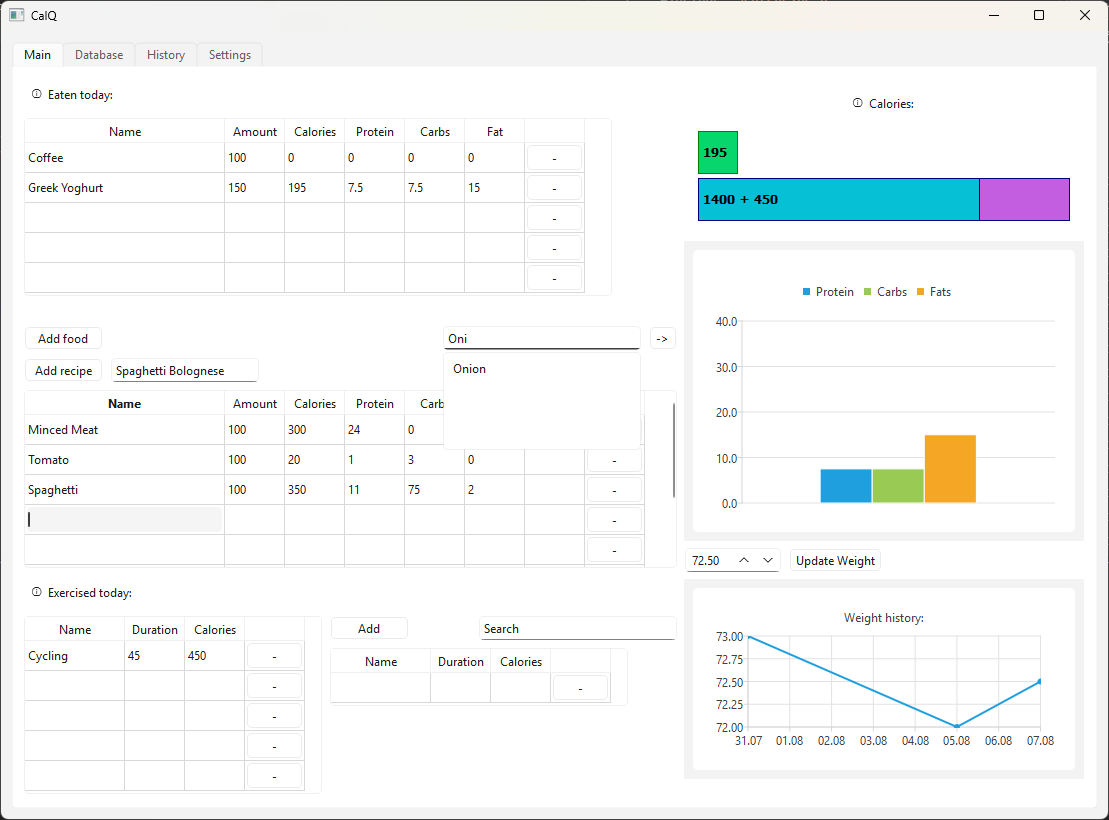
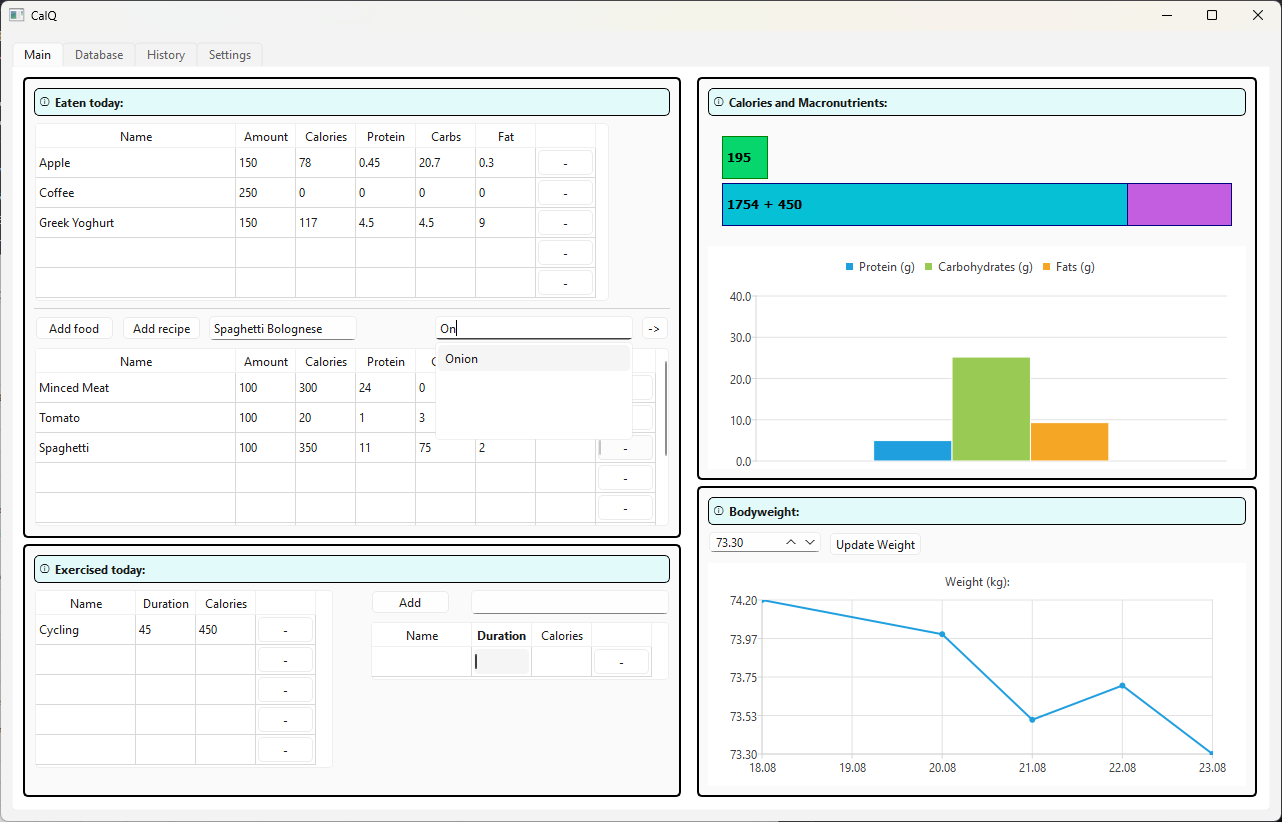
Changed README

diff --git a/database/DataBase.cpp b/database/DataBase.cpp
@@ -2,70 +2,6 @@
 #include <cctype>
 #include <QDir>
 
-/*
-bool DataBase::load_foods()
-{
-	QFile loadFile("resources/foodtypes.json");
-
-    if (!loadFile.open(QIODevice::ReadOnly)) {
-        qWarning("Couldn't open save file.");
-        return false;
-    }
-
-    QByteArray data = loadFile.readAll();
-
-    QJsonDocument doc;
-
-    doc = QJsonDocument::fromJson(data);
-    if (!doc.isObject()) {
-        qWarning("Save file wrong format.");
-        return false;
-    }
-
-    QJsonObject j = doc.object();
-    if (!j.contains("foods") || !j["foods"].isArray()) {
-        qWarning("Save file object wrong format.");
-        return false;
-    }
-
-    foods.clear();
-
-    for (const QJsonValue& val : j["foods"].toArray()) {
-        if (!val.isObject()) {
-            qWarning("Save file array object wrong format.");
-            return false;
-        }
-
-        FoodType ft = FoodType::from_json(val.toObject());
-        foods.push_back(ft);
-    }
-
-    return true;
-}
-
-bool DataBase::save_foods()
-{
-    QFile saveFile("resources/foodtypes.json");
-
-    if (!saveFile.open(QIODevice::WriteOnly)) {
-        qWarning("Couldn't open save file.");
-        return false;
-    }
-
-    QJsonArray arr_foods;
-    for (FoodType& t : foods)
-        arr_foods.append(t.to_json());
-
-    QJsonObject j;  //  argueably unnecessary
-    j["foods"] = arr_foods;
-
-    QJsonDocument doc(j);
-
-    return saveFile.write(doc.toJson());
-}
-
-*/
-
 DataBase::DataBase() : data_today(*this) 
 {
     if (!QDir("./resources").exists()) {

diff --git a/main.cpp b/main.cpp
@@ -20,6 +20,8 @@ int main(int argc, char *argv[])
 
     QApplication app(argc, argv);
 
+    //app.setStyleSheet("QLabel{font-family: \"Candara\"}");
+
     //sql_db.connect();
     //sql_db.initialize_db();
 

diff --git a/.github/README.md b/.github/README.md
@@ -3,10 +3,13 @@
 Track how many calories you eat, your macronutrients and how much you exercise.
 This program allows you to log your meals and weight, create recipes for ease of use and track how much of a meal you have eaten, if you did not finish it all.
 As you use CalQ, you will build up a database of different foods and exercises, which enables you to quickly add them again.
-You can display graphs showing you food consumption, weight and how much was exercised.
+You can display graphs showing you food consumption, weight and how much was exercised on each day.
 ![Image of the main tab](/.github/Main.png)
 
-Built using C++ and Qt 6.11 (mostly the Widgets module).
-In order to make the user experience smoother, I plan to add support for querying an SQL servers with food information, 
-as well automatically asking locally hosted AI for food data.
- 
+As you use the program you gradually build your own database of foods, recipes and exercises. Additionally there are two ways to import foods into your local database:
+- Connect to an SQL server and either import all the data or search for single foods. The program can be configured to accept different table and field names to make this simple.
+- Ask AI which is locally hosted using LMStudio/Bionic. You will receive a (hopefully accurate) result and can decide to import it into the local database. An AI model which I found to work well for this is Gemma 4 E4B, which tends to be both accurate and quick and needs less than 8GB of memory.
+
+![Image of the database tab](./github/Database.png)
+
+Built using C++ and Qt 6.11.
